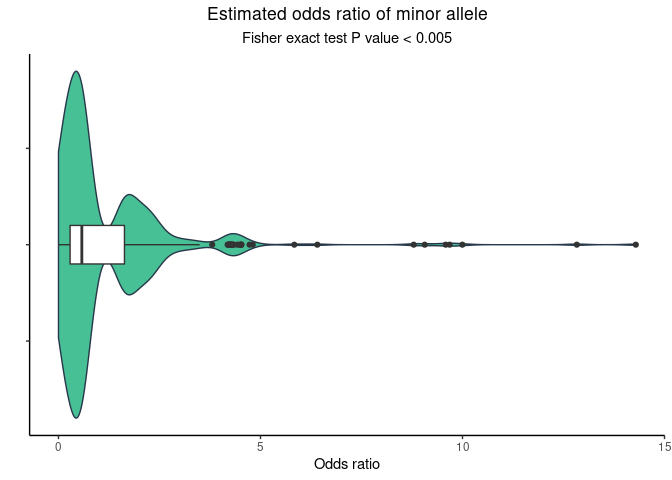
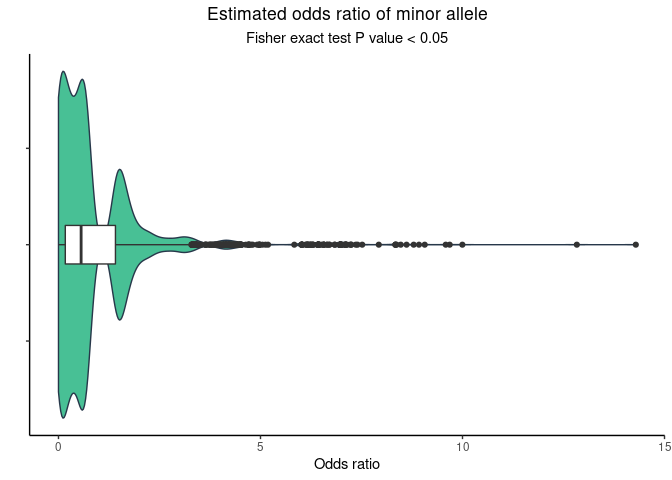
added IMPACT

diff --git a/cardiac_panel.md b/cardiac_panel.md
@@ -6,3 +6,13 @@ ensembl\_cardiac\_diseases\_panel\_20200715
 ![](cardiac_panel_files/figure-gfm/af%20plot-1.png)<!-- -->
 
 ![](cardiac_panel_files/figure-gfm/OR%20plot-1.png)<!-- -->
+
+| SNP                   | Location       | Allele | Gene            |     F\_A |    F\_U |        P |      OR | IMPACT   | Consequence                             |
+|:----------------------|:---------------|:-------|:----------------|---------:|--------:|---------:|--------:|:---------|:----------------------------------------|
+| chr1\_237423084\_T\_C | chr1:237423084 | C      | ENSG00000198626 | 0.090910 | 0.16360 | 0.001511 | 0.51140 | LOW      | splice\_region\_variant,intron\_variant |
+| chr1\_237500704\_C\_G | chr1:237500704 | G      | ENSG00000198626 | 0.029310 | 0.07009 | 0.004366 | 0.40050 | LOW      | splice\_region\_variant,intron\_variant |
+| chr2\_43828024\_C\_T  | chr2:43828024  | T      | ENSG00000138075 | 0.003589 | 0.02336 | 0.004671 | 0.15050 | MODERATE | missense\_variant                       |
+| chr2\_178704660\_T\_A | chr2:178704660 | A      | ENSG00000155657 | 0.022130 | 0.06075 | 0.002749 | 0.34990 | MODERATE | missense\_variant                       |
+| chr2\_178715250\_G\_A | chr2:178715250 | A      | ENSG00000155657 | 0.019740 | 0.05607 | 0.003172 | 0.33890 | MODERATE | missense\_variant                       |
+| chr3\_38604015\_A\_G  | chr3:38604015  | G      | ENSG00000183873 | 0.001196 | 0.01869 | 0.002012 | 0.06287 | LOW      | synonymous\_variant                     |
+| chr10\_18539262\_C\_T | chr10:18539262 | T      | ENSG00000165995 | 0.011960 | 0.04673 | 0.001109 | 0.24700 | LOW      | synonymous\_variant                     |
